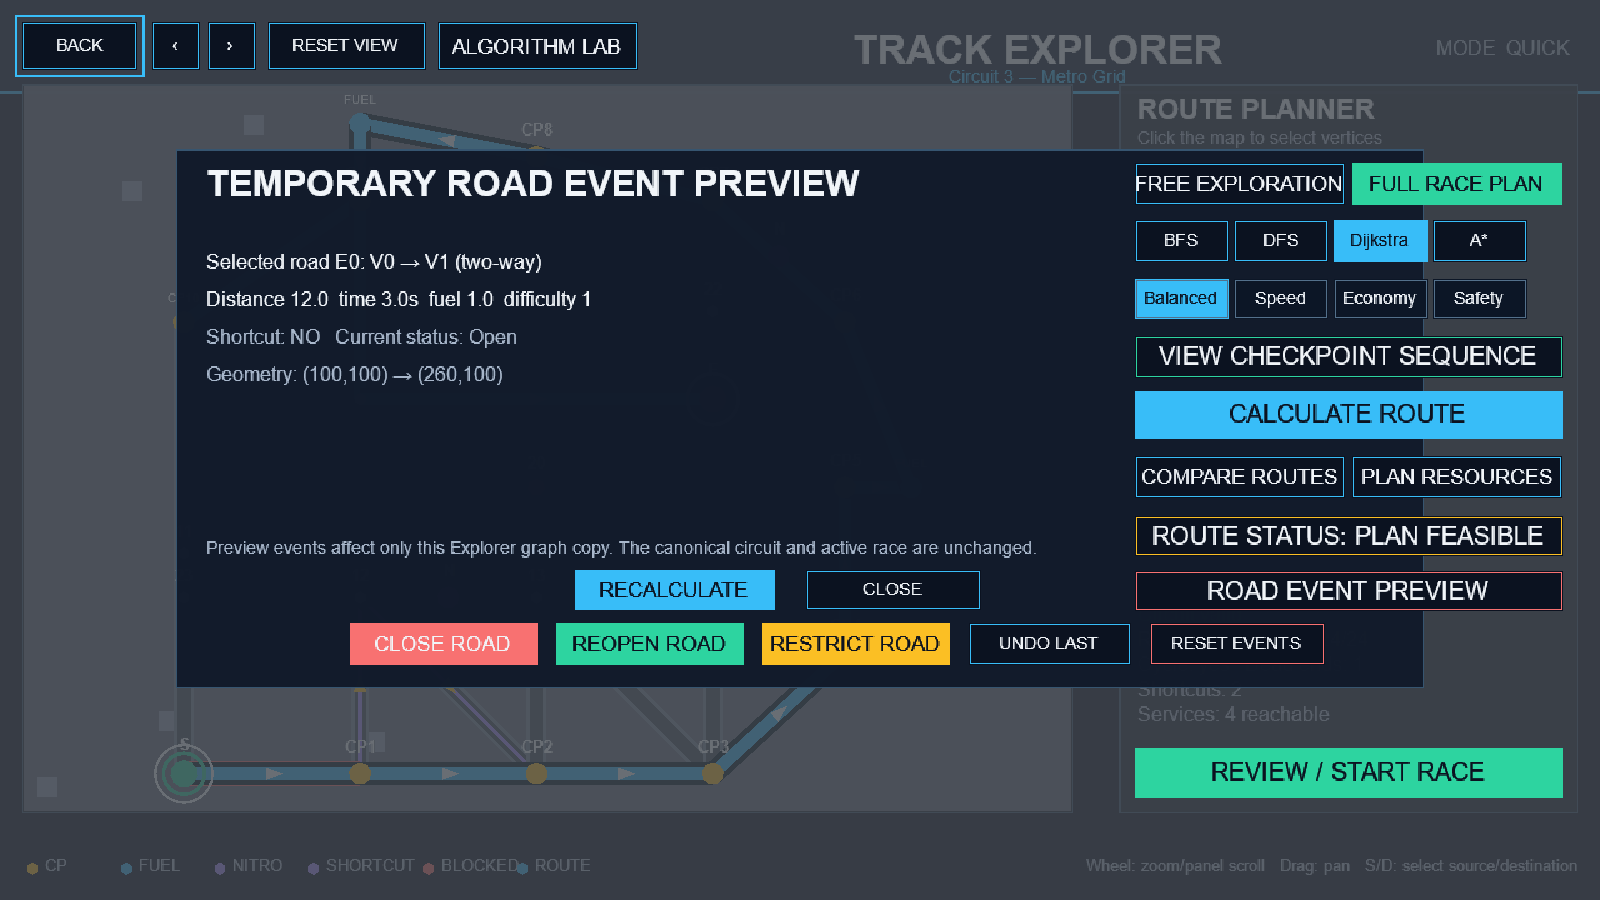
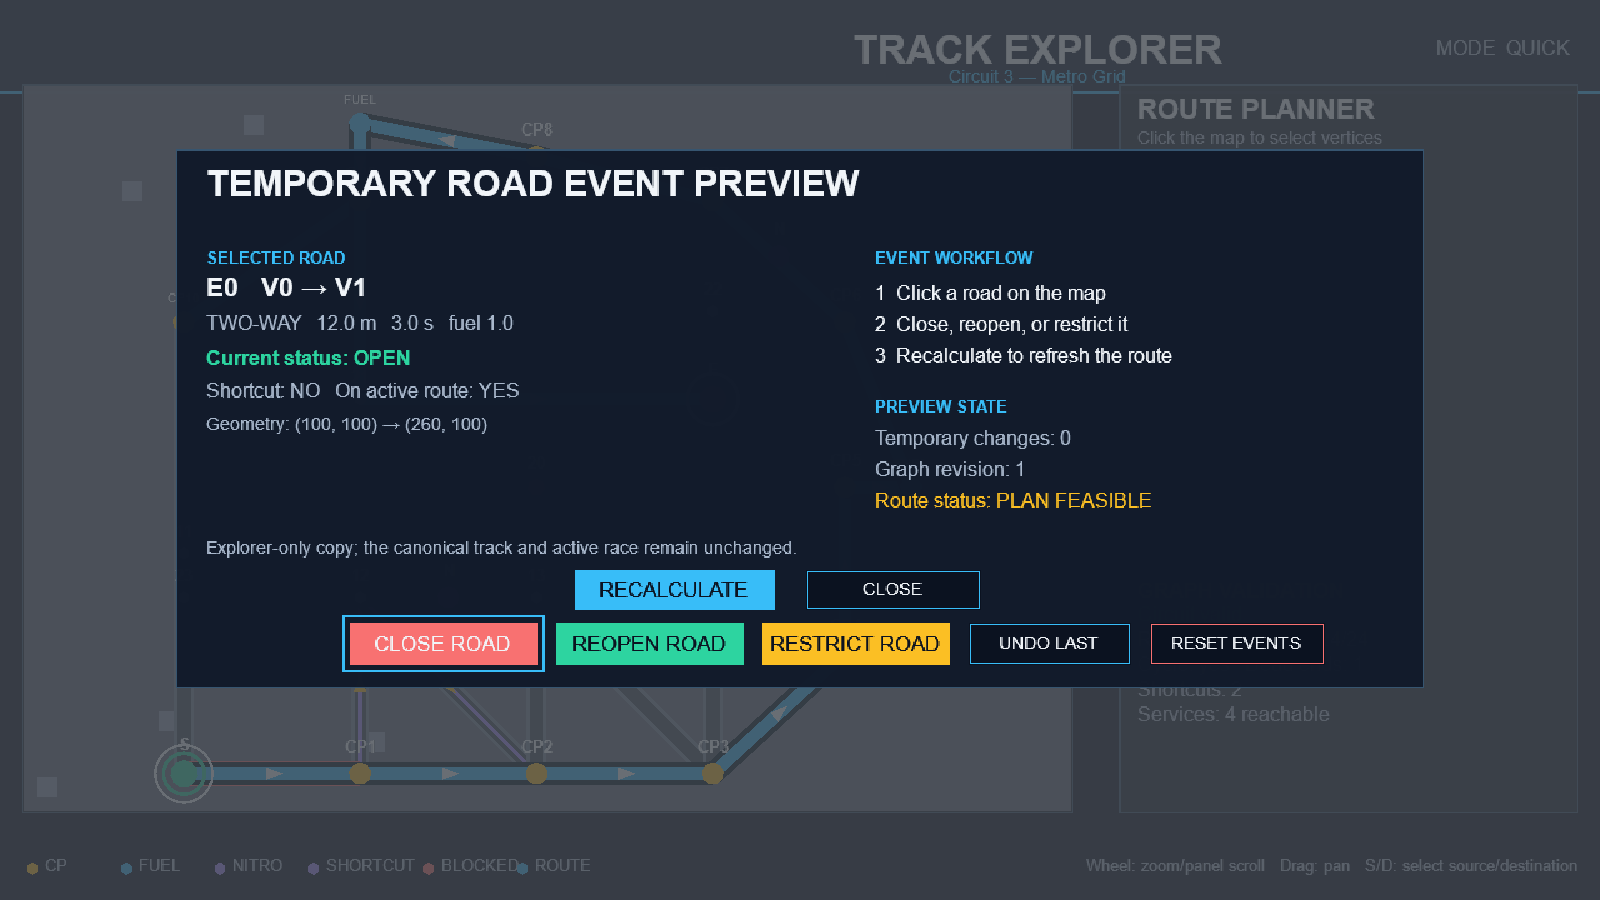
test(track-explorer): verify road event preview state

diff --git a/tests/unit/test_arcade_frontend.py b/tests/unit/test_arcade_frontend.py
@@ -6,6 +6,7 @@ from types import SimpleNamespace
 from smart_racing.arcade_ui.app import MainMenuView, TrackExplorerView
 from smart_racing.arcade_ui.lab_view import CATALOG
 from smart_racing.arcade_ui.session import DEFAULT_SETTINGS, GameSession
+from smart_racing.model.graph import EdgeStatus
 from smart_racing.services.race_engine import RaceEngine
 from smart_racing.services.route_planner import RoutePlanner
 from smart_racing.services.track_loader import load_tracks
@@ -164,6 +165,25 @@ def test_explorer_comparison_keeps_all_four_weighted_preset_cards():
     view.select_comparison(2)
     assert view.preset == "economy"
     assert view.route_result["preset"] == "economy"
+
+
+def test_explorer_road_event_preview_does_not_record_noop_status_change():
+    track = load_tracks()[0]
+    view = object.__new__(TrackExplorerView)
+    view.graph = deepcopy(track.graph())
+    view.event_edge_id = 0
+    view.event_history = []
+    view.graph_revision = 1
+    view.status_message = ""
+    view.status_color = None
+    view._mark_route_stale = lambda _message: None
+    view.rebuild_ui = lambda: None
+
+    view.apply_event(EdgeStatus.OPEN)
+
+    assert view.graph.edges[0].status == EdgeStatus.OPEN
+    assert view.event_history == []
+    assert view.graph_revision == 1
 
 
 def test_arcade_phase_views_expose_all_required_algorithm_families():

diff --git a/docs/PROGRESS.md b/docs/PROGRESS.md
@@ -30,7 +30,7 @@ Status: `COMPLETE` for the expanded gameplay/UI and release gates in the current
 - Race engine now uses `GameConfig.fixed_timestep = 1/60` and caches a route during edge traversal.
 - Race engine now accepts deterministic player throttle, brake, junction-exit, refuel, and nitro requests without allowing invalid graph edges.
 - Track Explorer now supports selectable start/destination vertices, checkpoint-aware planning, weighted route arrows, map zoom/pan/hover, wrapped descriptions, algorithm complexity/counters, exact physical metrics, fuel DP, nitro DP/Greedy recommendations, four-preset comparison, and live closure rerouting.
-- Existing algorithm, race, event, sorting, UI, championship, player-control, nitro, route-planner, track-validation, AI fuel, Explorer integration, geometry, comparison-card, and Arcade session tests are green (41 passed).
+- Existing algorithm, race, event, sorting, UI, championship, player-control, nitro, route-planner, track-validation, AI fuel, Explorer integration, geometry, comparison-card, road-event-preview, and Arcade session tests are green (42 passed).
 - Pygame visual smoke renders all five screens at 1440x900 and 1280x720 plus one Explorer screenshot for each redesigned circuit; the racing screen now shows layered roads, procedural cars, themed scenery, gates, services, pickups, camera follow, minimap, gauges, standings, and event state.
 - All three circuits complete full deterministic races and a full championship after the redesign.
 - Experiments and technical report were regenerated after the gameplay/UI changes.

diff --git a/docs/REQUIREMENTS_TRACEABILITY.md b/docs/REQUIREMENTS_TRACEABILITY.md
@@ -42,7 +42,7 @@ Source priority: the supplied `Project.pdf` is authoritative; the implementation
 | Multi-objective bonus | PDF 8.2 | cost presets | Explorer | preset comparison | VERIFIED | four presets |
 | Live top-k bonus | PDF 8.3 | heap `nsmallest` top-k | Dashboard service | top-k test | VERIFIED | comparator equality |
 | Responsive UI evidence | Improvement prompt 8/19, Phase 1 prompt | `tools/visual_smoke.py`, `docs/screenshots/` | all screens | real Pygame render plus Arcade smoke at 1280x720, 1600x900, 1920x1080 | VERIFIED | Pygame screenshots; latest Arcade menu, settings, instructions, circuit selection, Explorer, Racing, Lab, and Dashboard frames inspected |
-| Required tests | PDF 9.1 | `tests/` | n/a | `python -m pytest -q` | VERIFIED | 41 passed |
+| Required tests | PDF 9.1 | `tests/` | n/a | `python -m pytest -q` | VERIFIED | 42 passed |
 | Technical report | PDF 9.2 | `build_report.py` | n/a | PDF render inspection | VERIFIED | 5-page report |
 | Submission package | PDF 9.3 | `build_submission.ps1` | n/a | archive manifest/open | VERIFIED | ZIP generated |
 | Explorer route configuration handoff | Improvement task | `GameSession.route_plan` → Racing destination | Explorer -> Racing | `test_route_configuration_transfers_from_explorer_to_race_session` + direct view smoke | VERIFIED | circuit, algorithm, preset, endpoints, path, edge IDs, metrics, fuel plan |

diff --git a/docs/TRACK_EXPLORER_BUTTON_AUDIT.md b/docs/TRACK_EXPLORER_BUTTON_AUDIT.md
@@ -19,7 +19,7 @@ This audit covers the functional-overhaul branch. Each control is wired to a rea
 | PLAN RESOURCES | Runs fuel feasibility plus Nitro DP/Greedy planning | Does not silently alter race rules | resource modal screenshot |
 | ROUTE STATUS | Explains current route state | Distinguishes no route, stale, invalid, feasible, infeasible | `show_route_status()` |
 | ROAD EVENT PREVIEW | Opens road selection and event actions | Events apply to Explorer graph copy only | event modal screenshot |
-| CLOSE / REOPEN / RESTRICT ROAD | Mutates the selected edge status | Every mutation invalidates the prior route | `apply_event()` and blocked-edge test |
+| CLOSE / REOPEN / RESTRICT ROAD | Mutates the selected edge status | No-op status changes are ignored; real mutations invalidate the prior route | `apply_event()` and blocked-edge/no-op tests |
 | UNDO LAST / RESET EVENTS | Restores prior or canonical edge statuses | Rebuilds route validity state | event history methods |
 | RECALCULATE | Replans after a road event | Uses the modified graph revision | `recalculate_from_event_modal()` |
 | REVIEW / START RACE | Validates the current plan and opens review | Free mode, stale route, invalid graph, wrong endpoint, and infeasible fuel are rejected | `start_race()` |

diff --git a/docs/OVERNIGHT_PROGRESS.md b/docs/OVERNIGHT_PROGRESS.md
@@ -47,3 +47,10 @@ This ledger records evidence-backed work for the Smart Racing Championship final
 - Added symmetric selectable route cards with Time, Distance, Fuel, Cost, and Valid metrics, selected-state highlighting, invalid-candidate preservation, and responsive modal geometry.
 - Visual verification: inspected updated comparison captures at logical 1280x720 and 1600x900; fixed modal layering, focus outline leakage, and card metric/title overlap.
 - Regression: `python -m pytest -q` → 41 passed; `python -m ruff check .` → passed.
+
+## 2026-11-21 — Road Event Preview polish
+
+- Expanded the event modal with selected-road identity, direction, physical metrics, current status, shortcut/active-route flags, geometry, workflow instructions, temporary-change count, graph revision, and route status.
+- Added a no-op guard so applying the already-active status does not create false event history or invalidate a route.
+- Visual verification: inspected `docs/screenshots/arcade_explorer_events_1280.png` after the modal update.
+- Regression: `python -m pytest -q` → 42 passed; `python -m ruff check .` → passed.
